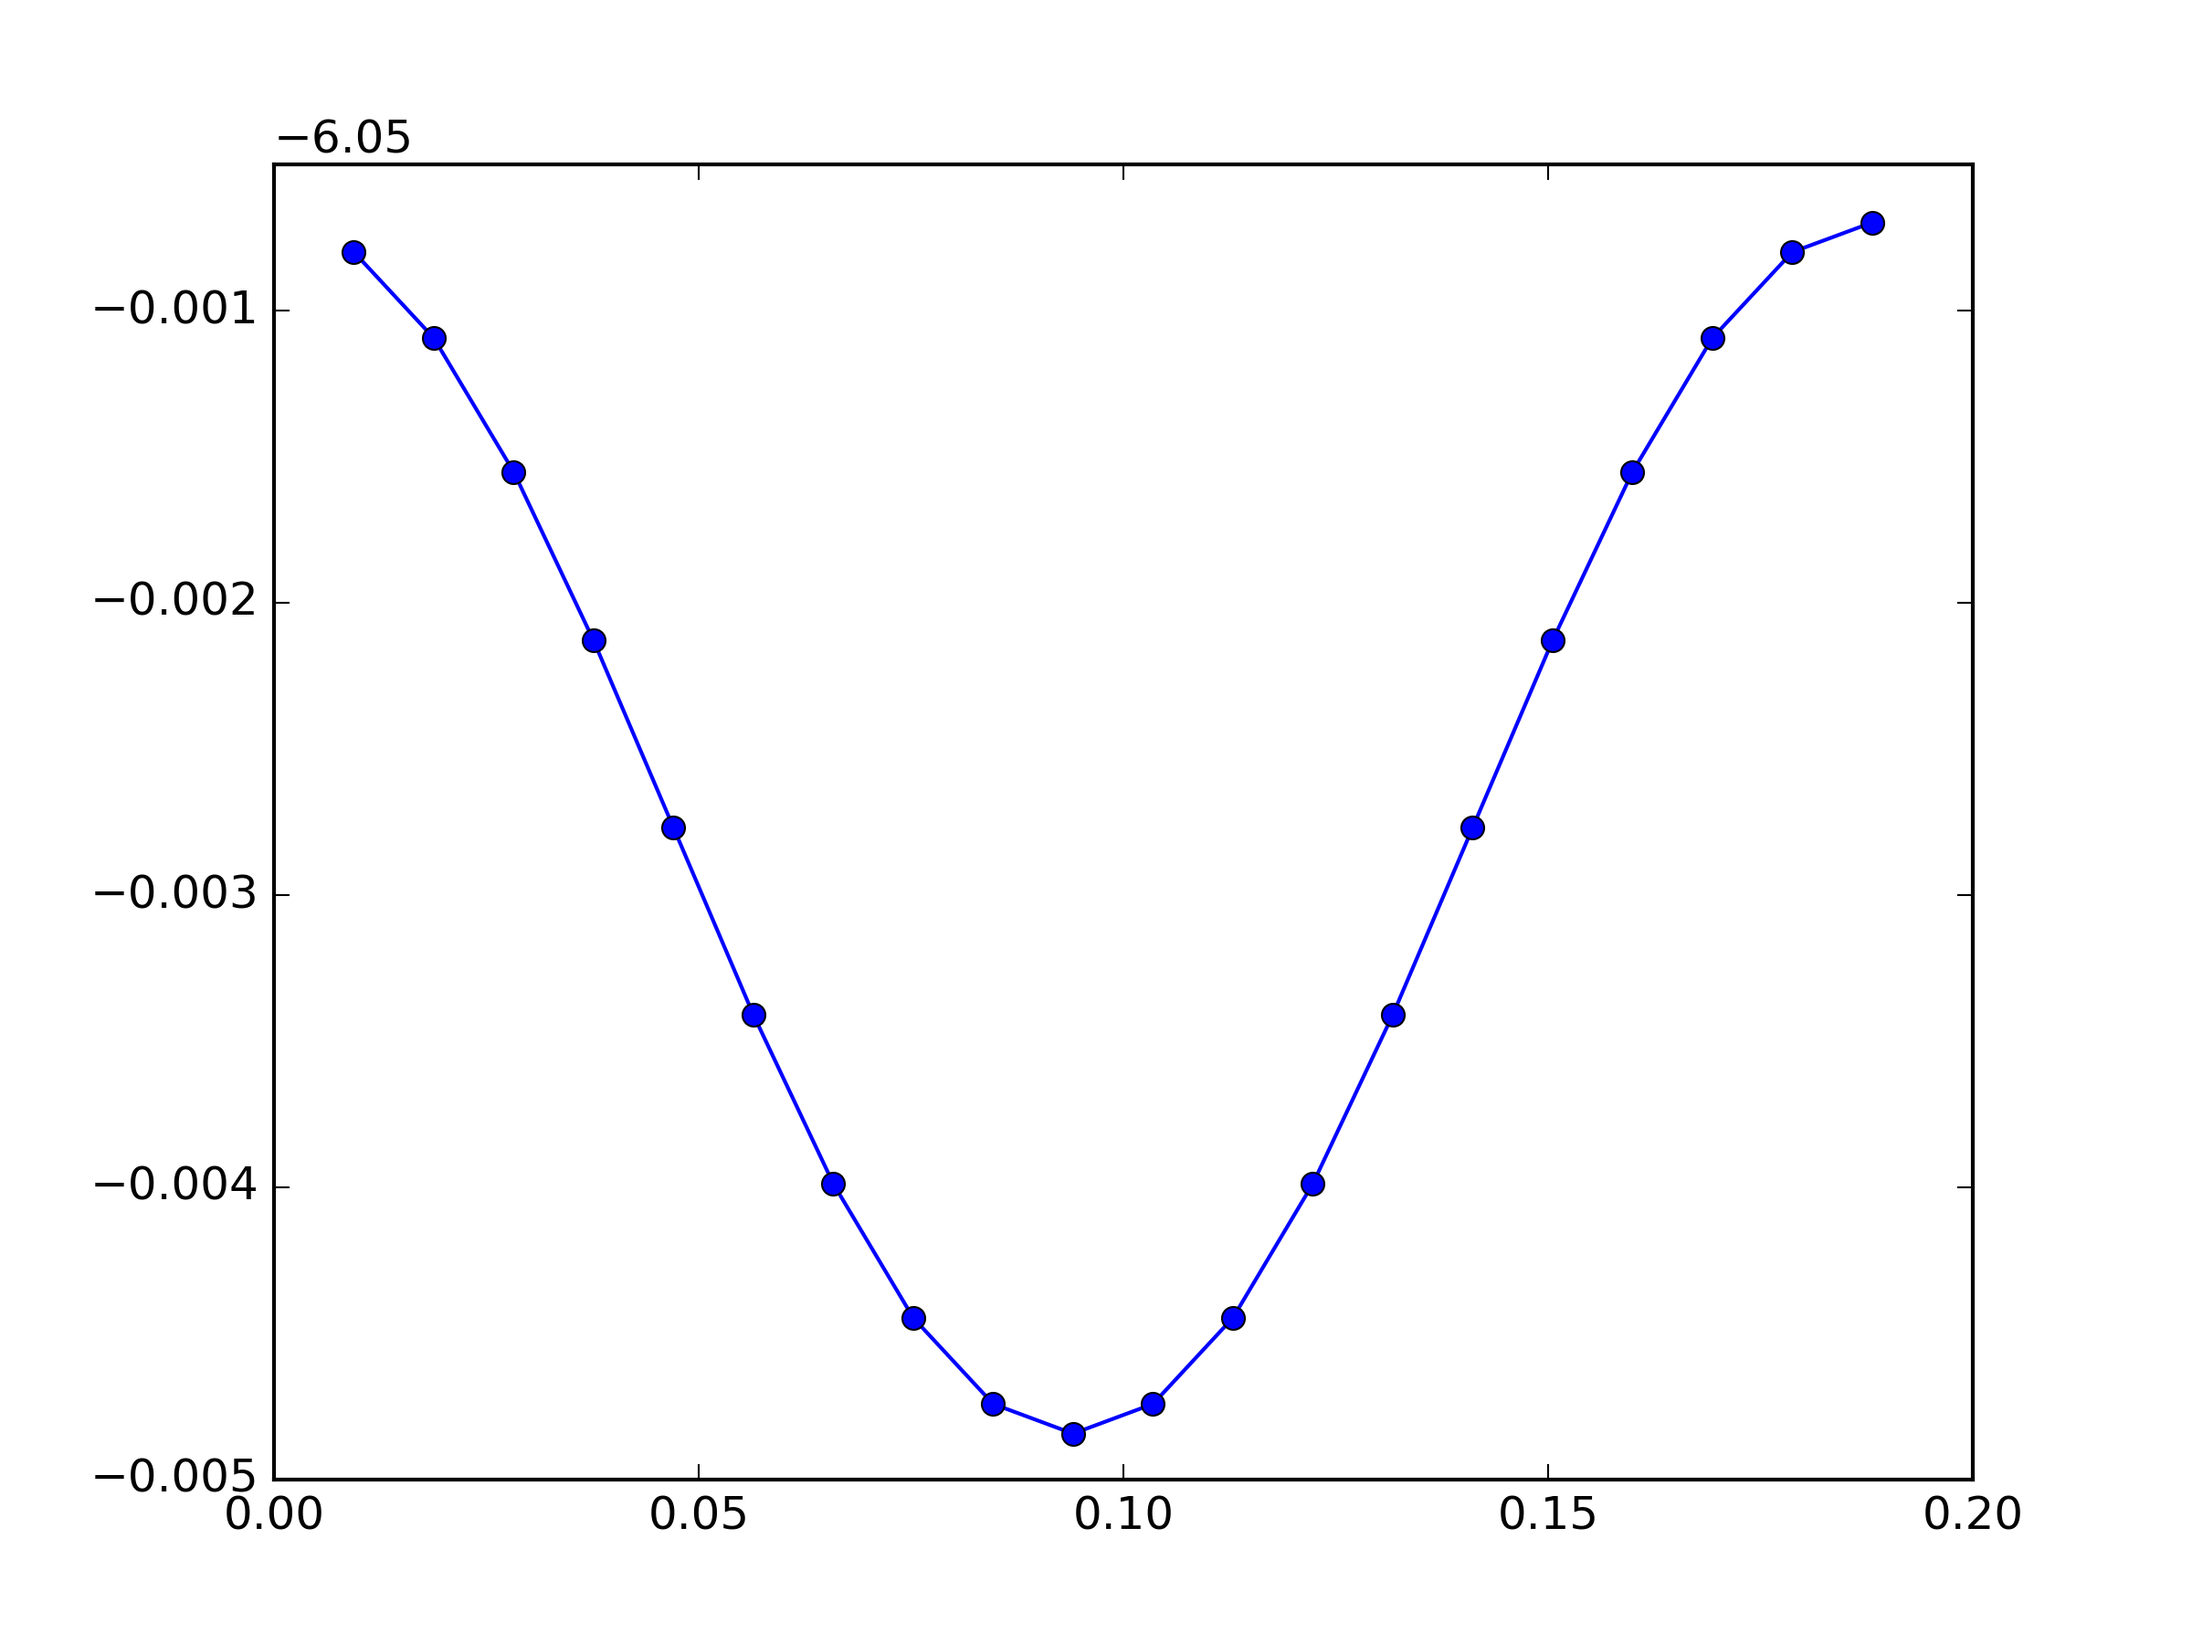
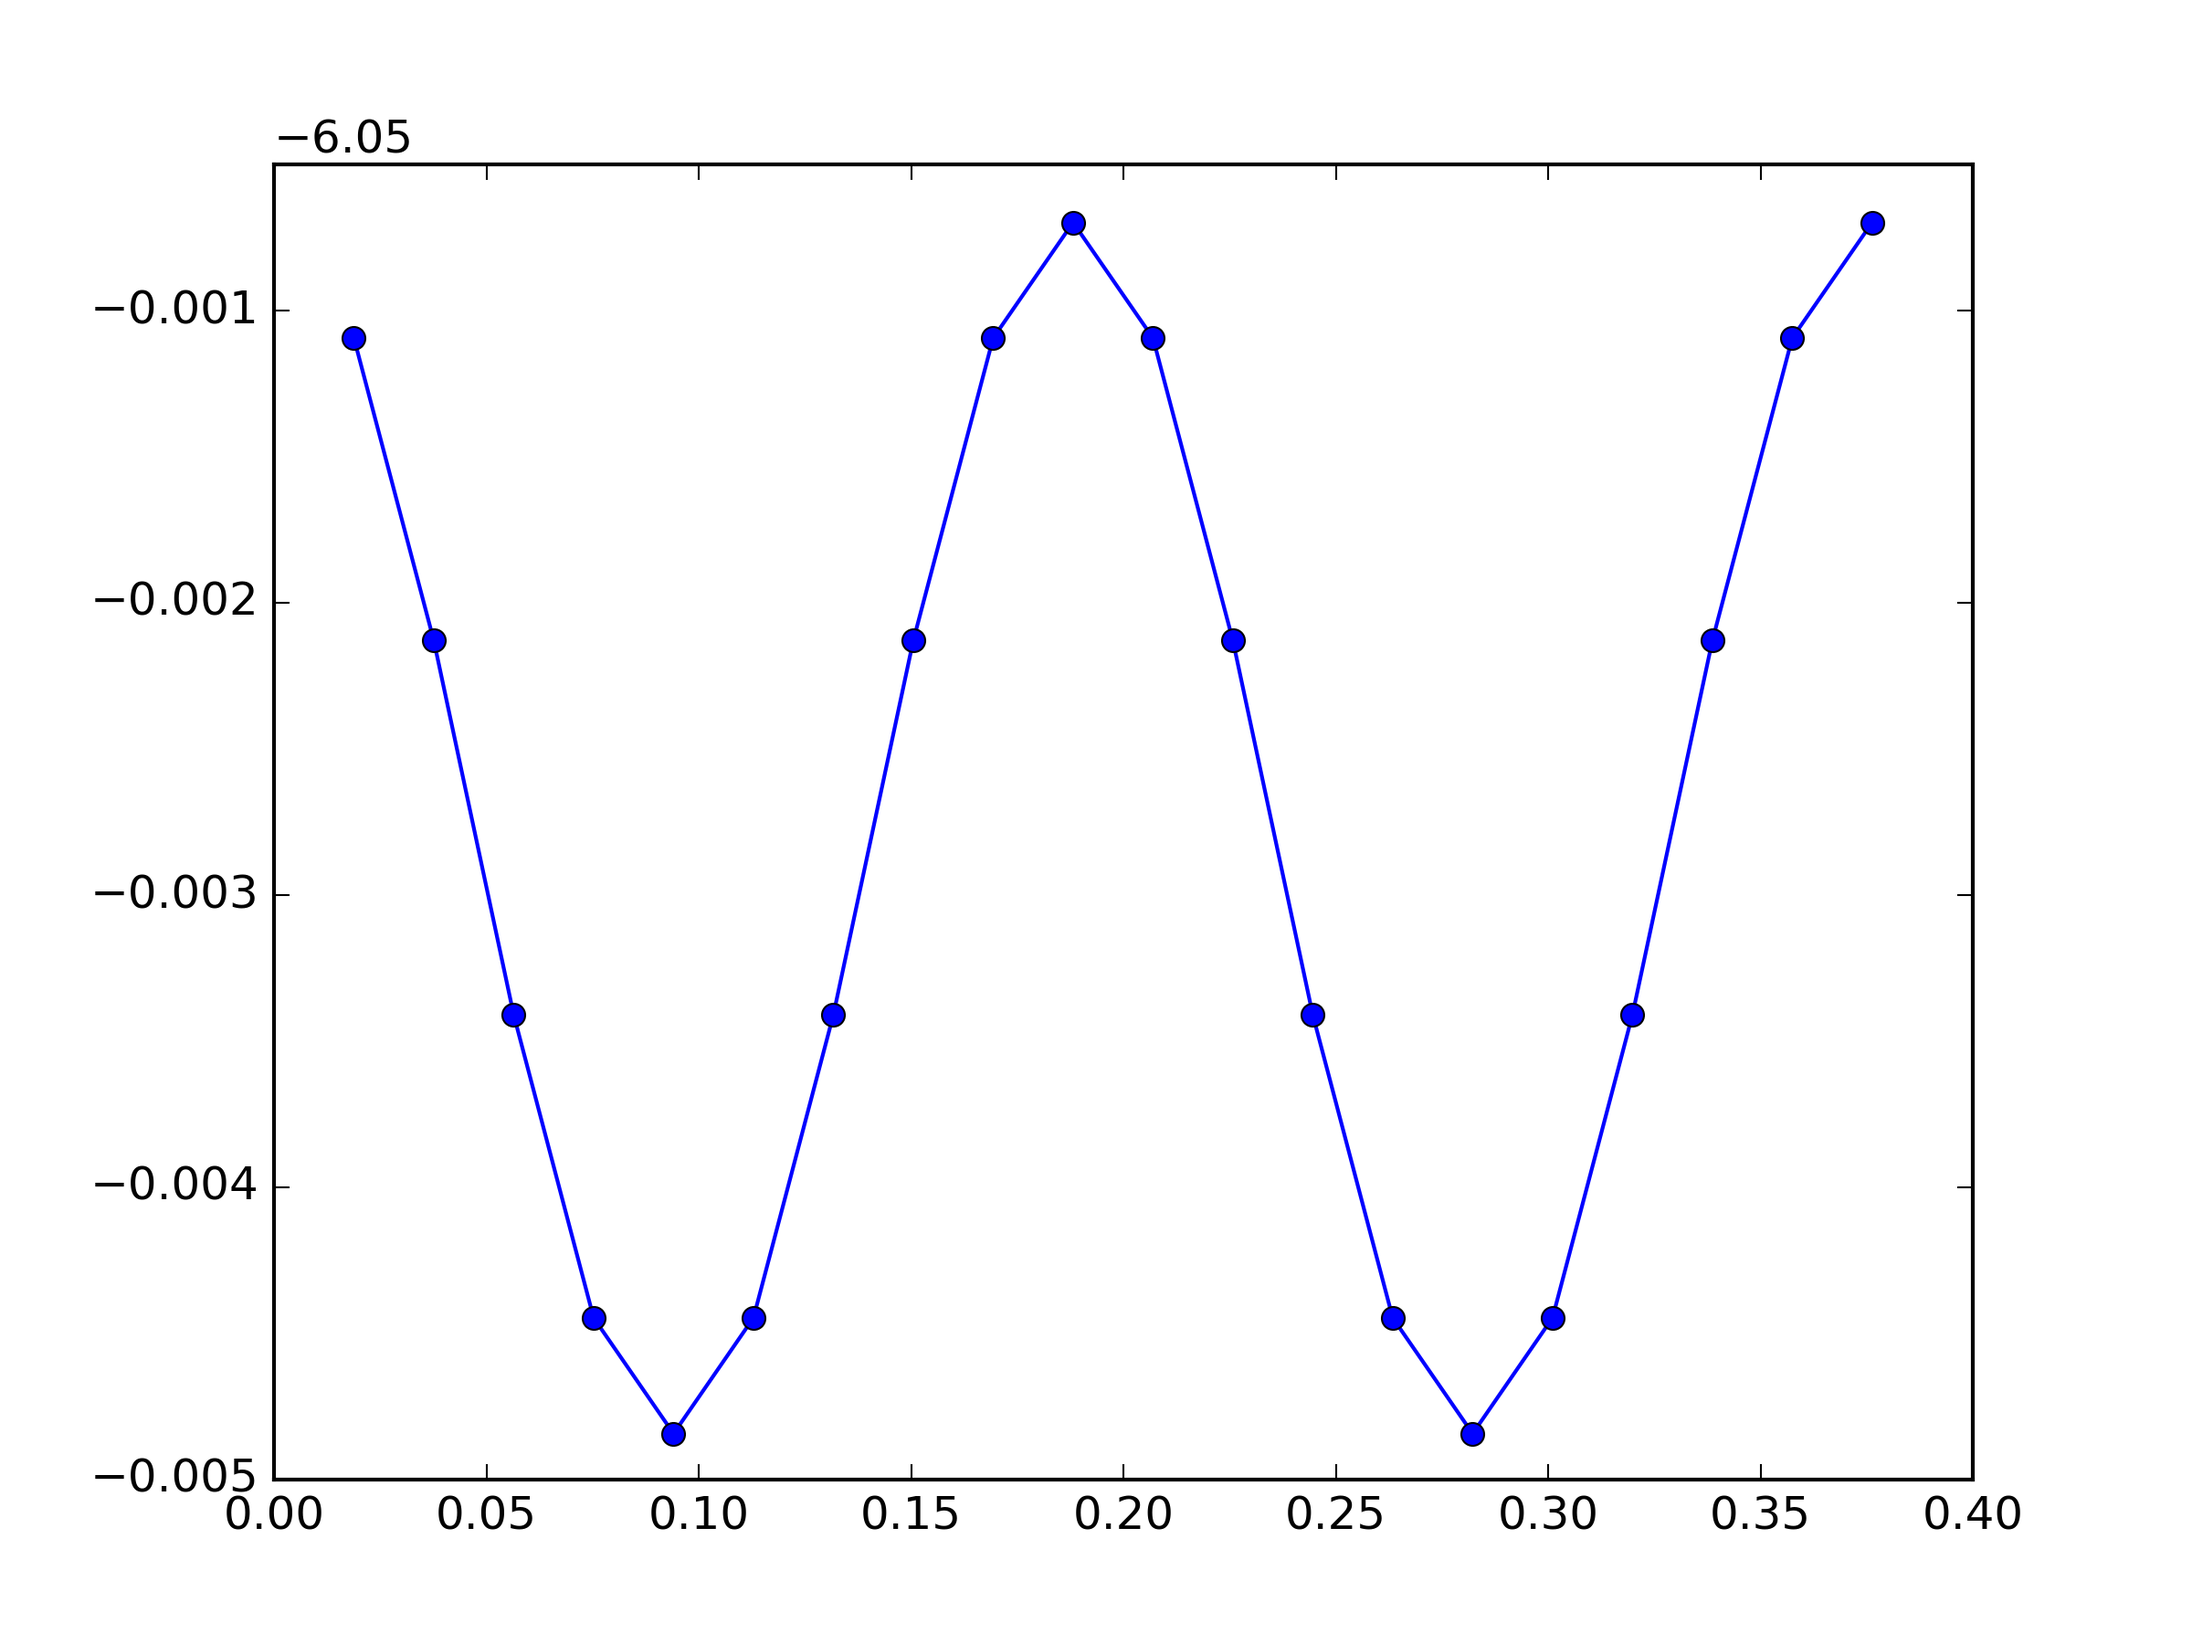
Double the step

diff --git a/works/eggbox_atom_H/along_x/do_run.py b/works/eggbox_atom_H/along_x/do_run.py
@@ -1,7 +1,6 @@
 from __future__ import print_function
 import numpy as np
-from ase.units import Bohr
-from ase.units import Ry
+from ase.units import Bohr, Ry
 import sys
 import os
 
@@ -18,7 +17,7 @@ def read_etot(logfile):
 
 
 start_pos = 0.0
-dx = 16.0*Bohr/45/20
+dx = 16.0*Bohr/45/10
 Nmoves = 20
 
 f = open('TEMPLATE_INP', 'r')
